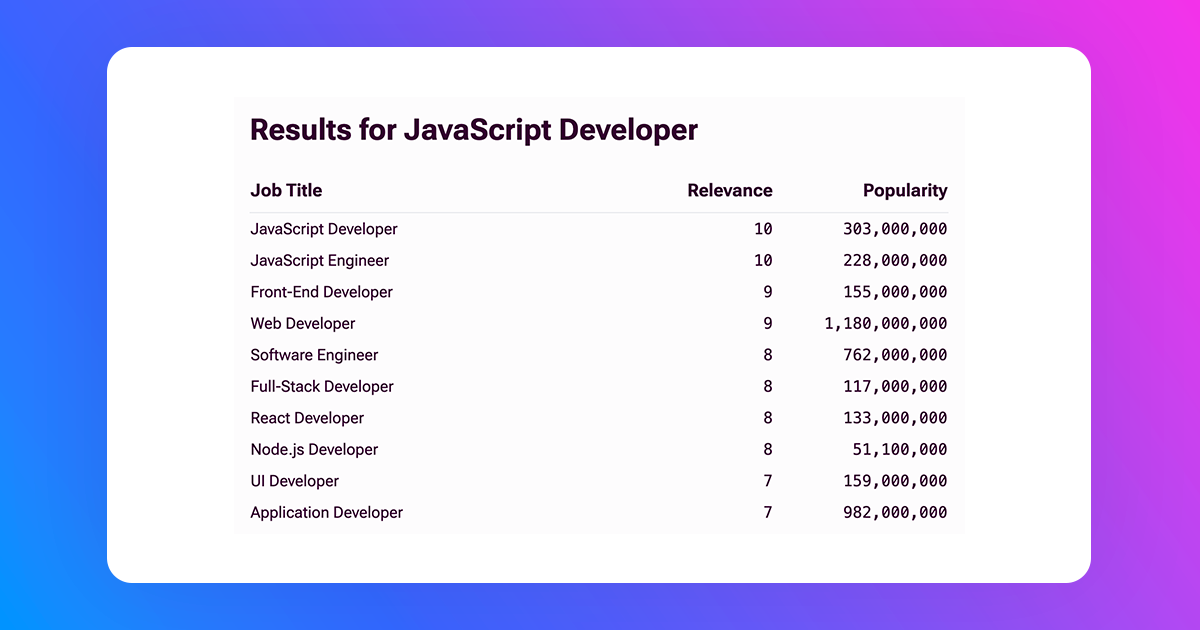
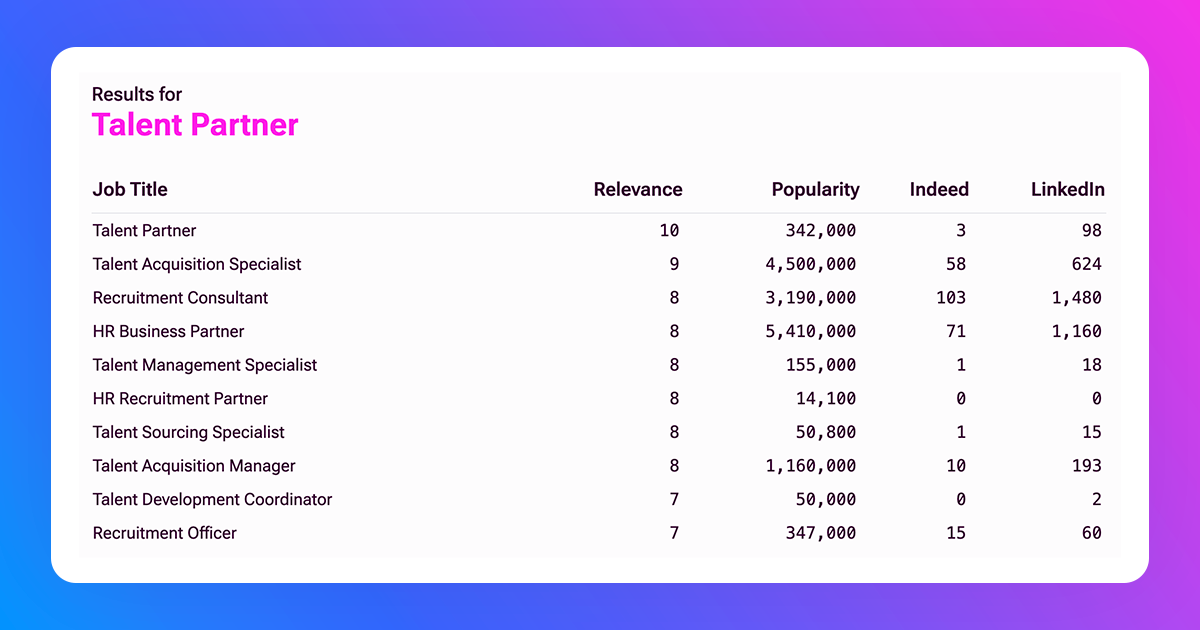
feat: update look of results and social images

diff --git a/app/(tools)/job-titles/_components/ResearchFormResults.tsx b/app/(tools)/job-titles/_components/ResearchFormResults.tsx
@@ -65,25 +65,37 @@ function ResultsContainer({
   return (
     <Glass>
       <div className="flex flex-col gap-3 md:gap-5 xl:gap-7 p-3 md:p-5 xl:p-7">
-        <h2 className="text-lg font-bold !leading-tight sm:text-xl lg:text-2xl 2xl:text-3xl">
-          Results for <span className="capitalize">{jobTitle}</span>,{" "}
-          {location !== "global" ? countries[location]?.name : "Global"}
+        <h2 className=" font-medium">
+          <div className="text-xs sm:text-sm lg:text-base 2xl:text-lg">
+            Results
+            {location !== "global" && (
+              <span className="text-xs sm:text-sm lg:text-base font-medium 2xl:text-lg text-odpink-black">
+                {" "}
+                in {countries[location]?.name}
+              </span>
+            )}{" "}
+            for{" "}
+          </div>
+
+          <div className="lg:-mt-1 font-bold text-lg text-odpink-mid !leading-tight sm:text-xl lg:text-2xl 2xl:text-3xl">
+            <span className="capitalize">{jobTitle}</span>
+          </div>
         </h2>
 
         <table className="w-full">
           <thead className="border-b md:text-lg">
             <tr>
-              <th className="text-left pb-2">Job Title</th>
-              <th className="text-right pb-2">
+              <th className="font-semibold text-left pb-2">Job Title</th>
+              <th className="font-semibold text-right pb-2">
                 Rel<span className="max-md:sr-only">evance</span>
               </th>
-              <th className="text-right pb-2">
+              <th className="font-semibold text-right pb-2">
                 Pop<span className="max-md:sr-only">ularity</span>
               </th>
-              <th className="text-right pb-2">
+              <th className="font-semibold text-right pb-2">
                 In<span className="max-md:sr-only">deed</span>
               </th>
-              <th className="text-right pb-2">
+              <th className="font-semibold text-right pb-2">
                 Li<span className="max-md:sr-only">nkedIn</span>
               </th>
             </tr>
